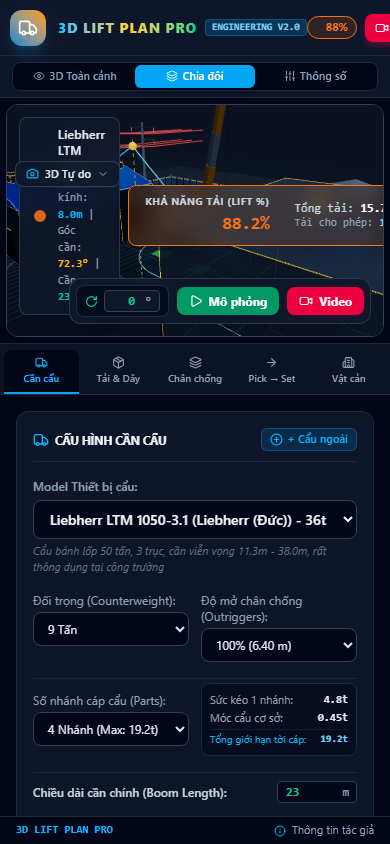
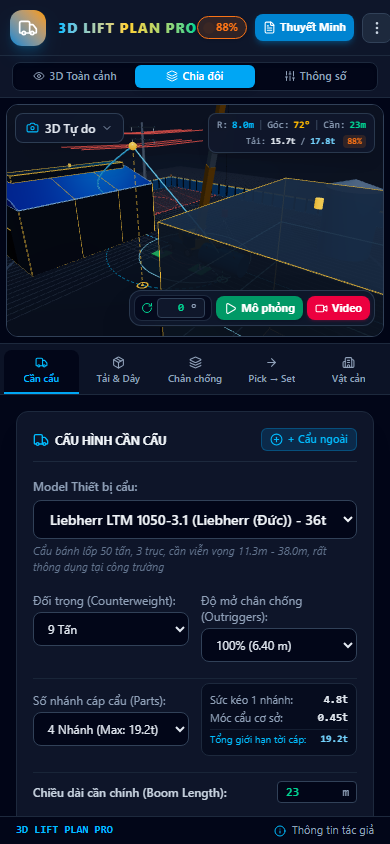
fix: khac phuc triet de loi bo cuc va tran man hinh tren dien thoai

Changed region(s): [[0.0308, 0.1232, 0.9846, 0.4005], [0.4923, 0.0, 1.0, 0.0616], [0.5231, 0.1232, 0.9538, 0.1848]]

diff --git a/src/components/ThreeViewport.jsx b/src/components/ThreeViewport.jsx
@@ -1093,8 +1093,8 @@ export default function ThreeViewport({
         </div>
       )}
 
-      {/* Top Overlay Bar: Status & Key Telemetry */}
-      <div className="absolute top-3 left-3 right-3 flex items-center justify-between pointer-events-none gap-2">
+      {/* Top Overlay Bar: Desktop Mode (md and up) */}
+      <div className="hidden md:flex absolute top-3 left-3 right-3 items-center justify-between pointer-events-none gap-2 z-20">
         {/* Crane & Model Tag */}
         <div className="bg-slate-900/85 backdrop-blur-md px-3.5 py-2 rounded-lg border border-slate-700/80 shadow-lg flex items-center gap-3 pointer-events-auto">
           <div className="w-3 h-3 rounded-full animate-pulse shrink-0" style={{ backgroundColor: liftCategory.color }} />
@@ -1130,6 +1130,116 @@ export default function ThreeViewport({
             <div className="text-slate-400 text-[11px]">
               Tải cho phép: <span className="font-bold text-sky-300">{ratedCapacity.toFixed(2)}t</span>
             </div>
+          </div>
+        </div>
+      </div>
+
+      {/* Top Overlay Bar: Mobile Mode (< md) */}
+      <div className="md:hidden absolute top-2 left-2 right-2 flex items-start justify-between pointer-events-none gap-1.5 z-20">
+        {/* Camera Selector Dropdown Pill */}
+        <div className="relative pointer-events-auto shrink-0">
+          <button
+            type="button"
+            onClick={() => setIsCameraMenuOpen(!isCameraMenuOpen)}
+            className="bg-slate-900/95 backdrop-blur-md px-2.5 py-1.5 rounded-lg border border-slate-700/90 text-xs font-semibold text-slate-200 flex items-center gap-1.5 shadow-xl active:scale-95 transition-transform"
+          >
+            <Camera size={13} className="text-sky-400 shrink-0" />
+            <span>
+              {activeCameraView === '3d' && '3D Tự do'}
+              {activeCameraView === 'top' && 'Mặt bằng'}
+              {activeCameraView === 'side' && 'Mặt bên'}
+              {activeCameraView === 'cab' && 'Buồng lái'}
+              {activeCameraView === 'load' && 'Tải cẩu'}
+            </span>
+            <ChevronDown size={12} className={`text-slate-400 transition-transform ${isCameraMenuOpen ? 'rotate-180' : ''}`} />
+          </button>
+
+          {isCameraMenuOpen && (
+            <div className="absolute left-0 top-full mt-1 bg-slate-900/95 backdrop-blur-md p-1.5 rounded-xl border border-slate-700 shadow-2xl flex flex-col gap-1 min-w-[130px] z-50 animate-in fade-in duration-150">
+              <button
+                type="button"
+                onClick={() => { setCameraPreset('3d'); setIsCameraMenuOpen(false); }}
+                className={`px-2.5 py-1.5 rounded-lg text-xs font-medium text-left flex items-center gap-2 ${
+                  activeCameraView === '3d' ? 'bg-sky-500 text-white font-bold' : 'text-slate-300 hover:bg-slate-800'
+                }`}
+              >
+                <Compass size={13} /> 3D Tự do
+              </button>
+              <button
+                type="button"
+                onClick={() => { setCameraPreset('top'); setIsCameraMenuOpen(false); }}
+                className={`px-2.5 py-1.5 rounded-lg text-xs font-medium text-left flex items-center gap-2 ${
+                  activeCameraView === 'top' ? 'bg-sky-500 text-white font-bold' : 'text-slate-300 hover:bg-slate-800'
+                }`}
+              >
+                <Layers size={13} /> Mặt bằng (Top)
+              </button>
+              <button
+                type="button"
+                onClick={() => { setCameraPreset('side'); setIsCameraMenuOpen(false); }}
+                className={`px-2.5 py-1.5 rounded-lg text-xs font-medium text-left flex items-center gap-2 ${
+                  activeCameraView === 'side' ? 'bg-sky-500 text-white font-bold' : 'text-slate-300 hover:bg-slate-800'
+                }`}
+              >
+                <Sliders size={13} /> Mặt bên (Side)
+              </button>
+              <button
+                type="button"
+                onClick={() => { setCameraPreset('cab'); setIsCameraMenuOpen(false); }}
+                className={`px-2.5 py-1.5 rounded-lg text-xs font-medium text-left flex items-center gap-2 ${
+                  activeCameraView === 'cab' ? 'bg-sky-500 text-white font-bold' : 'text-slate-300 hover:bg-slate-800'
+                }`}
+              >
+                <Eye size={13} /> Buồng lái
+              </button>
+              <button
+                type="button"
+                onClick={() => { setCameraPreset('load'); setIsCameraMenuOpen(false); }}
+                className={`px-2.5 py-1.5 rounded-lg text-xs font-medium text-left flex items-center gap-2 ${
+                  activeCameraView === 'load' ? 'bg-sky-500 text-white font-bold' : 'text-slate-300 hover:bg-slate-800'
+                }`}
+              >
+                <Box size={13} /> Tải cẩu
+              </button>
+              <div className="h-px bg-slate-800 my-0.5" />
+              <button
+                type="button"
+                onClick={() => { setIsGizmoActive(!isGizmoActive); setIsCameraMenuOpen(false); }}
+                className={`px-2.5 py-1.5 rounded-lg text-xs font-bold text-left flex items-center gap-2 ${
+                  isGizmoActive ? 'bg-rose-600 text-white' : 'text-slate-300 hover:bg-slate-800'
+                }`}
+              >
+                <Move3d size={13} /> {isGizmoActive ? 'Tắt kéo 3D' : 'Bật kéo 3D'}
+              </button>
+            </div>
+          )}
+        </div>
+
+        {/* Compact Mobile Telemetry Card */}
+        <div className="bg-slate-900/90 backdrop-blur-md px-2 py-1 rounded-lg border border-slate-700/80 shadow-lg text-[10px] font-mono pointer-events-auto text-right">
+          <div className="flex items-center gap-1 justify-end">
+            <span className="text-slate-400">R:</span>
+            <b className="text-sky-400">{workingRadius.toFixed(1)}m</b>
+            <span className="text-slate-600">|</span>
+            <span className="text-slate-400">Góc:</span>
+            <b className="text-amber-400">{boomAngle.toFixed(0)}°</b>
+            <span className="text-slate-600">|</span>
+            <span className="text-slate-400">Cần:</span>
+            <b className="text-emerald-400">{boomLength.toFixed(0)}m</b>
+          </div>
+          <div className="flex items-center gap-1 justify-end text-[9px] mt-0.5">
+            <span className="text-slate-400">
+              Tải: <b className="text-slate-200">{grossLoad.toFixed(1)}t</b> / <b className="text-sky-300">{ratedCapacity.toFixed(1)}t</b>
+            </span>
+            <span
+              className="px-1 py-0.2 rounded font-bold ml-1"
+              style={{
+                backgroundColor: liftCategory.bgColor,
+                color: liftCategory.color
+              }}
+            >
+              {liftPercentage > 0 ? `${liftPercentage.toFixed(0)}%` : 'NGOÀI'}
+            </span>
           </div>
         </div>
       </div>
@@ -1217,71 +1327,11 @@ export default function ThreeViewport({
         </button>
       </div>
 
-      {/* Mobile Mode (under md): Compact Collapsible Pill Dropdown */}
-      <div className="md:hidden absolute left-2 top-14 z-30 pointer-events-auto">
-        <button
-          onClick={() => setIsCameraMenuOpen(!isCameraMenuOpen)}
-          className="bg-slate-900/90 backdrop-blur-md px-2.5 py-1 rounded-lg border border-slate-700/90 text-[11px] font-semibold text-slate-200 flex items-center gap-1.5 shadow-lg active:scale-95 transition-transform"
-        >
-          <Camera size={13} className="text-sky-400 shrink-0" />
-          <span>
-            {activeCameraView === '3d' && '3D Tự do'}
-            {activeCameraView === 'top' && 'Mặt bằng'}
-            {activeCameraView === 'side' && 'Mặt bên'}
-            {activeCameraView === 'cab' && 'Buồng lái'}
-            {activeCameraView === 'load' && 'Tải cẩu'}
-          </span>
-          <ChevronDown size={12} className={`text-slate-400 transition-transform ${isCameraMenuOpen ? 'rotate-180' : ''}`} />
-        </button>
-
-        {isCameraMenuOpen && (
-          <div className="mt-1 bg-slate-900/95 backdrop-blur-md p-1.5 rounded-xl border border-slate-700 shadow-2xl flex flex-col gap-1 min-w-[125px] animate-in fade-in duration-150">
-            <button
-              onClick={() => { setCameraPreset('3d'); setIsCameraMenuOpen(false); }}
-              className={`px-2.5 py-1.5 text-xs rounded-lg text-left flex items-center gap-2 ${activeCameraView === '3d' ? 'bg-sky-500 text-white font-bold' : 'text-slate-300 hover:bg-slate-800'}`}
-            >
-              <Camera size={13} /> 3D Tự do
-            </button>
-            <button
-              onClick={() => { setCameraPreset('top'); setIsCameraMenuOpen(false); }}
-              className={`px-2.5 py-1.5 text-xs rounded-lg text-left flex items-center gap-2 ${activeCameraView === 'top' ? 'bg-sky-500 text-white font-bold' : 'text-slate-300 hover:bg-slate-800'}`}
-            >
-              <Compass size={13} /> Mặt bằng
-            </button>
-            <button
-              onClick={() => { setCameraPreset('side'); setIsCameraMenuOpen(false); }}
-              className={`px-2.5 py-1.5 text-xs rounded-lg text-left flex items-center gap-2 ${activeCameraView === 'side' ? 'bg-sky-500 text-white font-bold' : 'text-slate-300 hover:bg-slate-800'}`}
-            >
-              <Layers size={13} /> Mặt bên
-            </button>
-            <button
-              onClick={() => { setCameraPreset('cab'); setIsCameraMenuOpen(false); }}
-              className={`px-2.5 py-1.5 text-xs rounded-lg text-left flex items-center gap-2 ${activeCameraView === 'cab' ? 'bg-sky-500 text-white font-bold' : 'text-slate-300 hover:bg-slate-800'}`}
-            >
-              <Eye size={13} /> Buồng lái
-            </button>
-            <button
-              onClick={() => { setCameraPreset('load'); setIsCameraMenuOpen(false); }}
-              className={`px-2.5 py-1.5 text-xs rounded-lg text-left flex items-center gap-2 ${activeCameraView === 'load' ? 'bg-sky-500 text-white font-bold' : 'text-slate-300 hover:bg-slate-800'}`}
-            >
-              <Box size={13} /> Tải cẩu
-            </button>
-            <div className="h-px bg-slate-800 my-0.5" />
-            <button
-              onClick={() => { setIsGizmoActive(!isGizmoActive); setIsCameraMenuOpen(false); }}
-              className={`px-2.5 py-1.5 text-xs rounded-lg text-left flex items-center gap-2 ${isGizmoActive ? 'bg-rose-600 text-white font-bold' : 'text-slate-300 hover:bg-slate-800'}`}
-            >
-              <Move3d size={13} /> {isGizmoActive ? 'Tắt kéo 3D' : 'Bật kéo 3D'}
-            </button>
-          </div>
-        )}
-      </div>
-
       {/* Trajectory Simulation & Play Controls + Real-Time Load Rotation */}
-      <div className="absolute bottom-3 sm:bottom-4 right-3 sm:right-4 z-30 bg-slate-900/90 backdrop-blur-md p-1.5 rounded-xl border border-slate-700/80 shadow-xl flex items-center gap-2 shrink-0">
+      <div className="absolute bottom-2.5 sm:bottom-4 right-2 sm:right-4 z-30 bg-slate-900/95 backdrop-blur-md p-1 sm:p-1.5 rounded-xl border border-slate-700/80 shadow-2xl flex items-center gap-1 sm:gap-2 shrink-0 max-w-[calc(100%-1rem)] pointer-events-auto">
         {/* Real-time Direct Load Rotation Quick Control */}
-        <div className="flex items-center gap-1.5 bg-slate-950/70 border border-slate-700/60 rounded-lg px-2 py-1 text-xs">
-          <RotateCw size={13} className="text-emerald-400 shrink-0" />
+        <div className="flex items-center gap-1 sm:gap-1.5 bg-slate-950/70 border border-slate-700/60 rounded-lg px-1.5 sm:px-2 py-0.5 sm:py-1 text-xs">
+          <RotateCw size={12} className="text-emerald-400 shrink-0" />
           <span className="text-[11px] text-slate-300 font-medium hidden sm:inline">Xoay tải:</span>
           <WheelNumberInput
             value={loadRotation || 0}
@@ -1293,7 +1343,7 @@ export default function ThreeViewport({
             step={5}
             wrapAround={true}
             unit="°"
-            className="w-14 bg-slate-900 border border-slate-700 rounded px-1 py-0.5 text-xs text-emerald-400 font-mono font-bold text-center focus:border-emerald-500"
+            className="w-12 sm:w-14 bg-slate-900 border border-slate-700 rounded px-1 py-0.5 text-[11px] sm:text-xs text-emerald-400 font-mono font-bold text-center focus:border-emerald-500"
           />
           <div className="hidden sm:flex items-center gap-0.5">
             {[0, 90, 180, 270].map((deg) => (
@@ -1317,13 +1367,13 @@ export default function ThreeViewport({
 
         <button
           onClick={() => setIsSimulating(!isSimulating)}
-          className={`px-3 py-1.5 text-xs font-bold rounded-lg flex items-center gap-1.5 shadow transition-all whitespace-nowrap cursor-pointer ${
+          className={`px-2 sm:px-3 py-1 sm:py-1.5 text-[11px] sm:text-xs font-bold rounded-lg flex items-center gap-1 sm:gap-1.5 shadow transition-all whitespace-nowrap cursor-pointer ${
             isSimulating
               ? 'bg-amber-600 hover:bg-amber-500 text-white'
               : 'bg-emerald-600 hover:bg-emerald-500 text-white'
           }`}
         >
-          {isSimulating ? <Pause size={14} className="shrink-0" /> : <Play size={14} className="shrink-0" />}
+          {isSimulating ? <Pause size={13} className="shrink-0" /> : <Play size={13} className="shrink-0" />}
           <span className="hidden sm:inline">{isSimulating ? 'Tạm dừng mô phỏng' : 'Chạy thử đường cẩu (Pick → Set)'}</span>
           <span className="sm:hidden">{isSimulating ? 'Dừng' : 'Mô phỏng'}</span>
         </button>
@@ -1332,10 +1382,10 @@ export default function ThreeViewport({
         {onOpenVideoModal && (
           <button
             onClick={onOpenVideoModal}
-            className="px-3 py-1.5 text-xs font-bold rounded-lg flex items-center gap-1.5 shadow transition-all whitespace-nowrap cursor-pointer bg-rose-600 hover:bg-rose-500 text-white shadow-rose-600/20"
+            className="px-2 sm:px-3 py-1 sm:py-1.5 text-[11px] sm:text-xs font-bold rounded-lg flex items-center gap-1 sm:gap-1.5 shadow transition-all whitespace-nowrap cursor-pointer bg-rose-600 hover:bg-rose-500 text-white shadow-rose-600/20"
             title="Xuất video ngắn mô phỏng nâng hạ 3D (MP4 / Full HD)"
           >
-            <Video size={14} className="shrink-0" />
+            <Video size={13} className="shrink-0" />
             <span className="hidden sm:inline">Quay video 3D</span>
             <span className="sm:hidden">Video</span>
           </button>

diff --git a/src/App.jsx b/src/App.jsx
@@ -533,7 +533,7 @@ export default function App() {
               <h1 className="text-sm font-black tracking-wider uppercase bg-gradient-to-r from-sky-400 via-amber-300 to-emerald-400 bg-clip-text text-transparent whitespace-nowrap">
                 3D LIFT PLAN PRO
               </h1>
-              <span className="text-[10px] font-mono bg-sky-500/20 text-sky-300 border border-sky-500/30 px-1.5 py-0.2 rounded font-bold shrink-0">
+              <span className="text-[10px] font-mono bg-sky-500/20 text-sky-300 border border-sky-500/30 px-1.5 py-0.2 rounded font-bold shrink-0 hidden sm:inline-block">
                 ENGINEERING V2.0
               </span>
             </div>
@@ -608,24 +608,24 @@ export default function App() {
             </label>
           </div>
 
-          {/* Primary Action Buttons (Always visible) */}
+          {/* Primary Action Buttons */}
           <button
             onClick={() => setIsVideoModalOpen(true)}
-            className="bg-rose-600 hover:bg-rose-500 text-white px-2.5 sm:px-3.5 py-1.5 rounded-lg text-xs font-bold flex items-center gap-1.5 shadow-md shadow-rose-600/30 transition-colors whitespace-nowrap shrink-0 cursor-pointer"
+            className="hidden sm:flex bg-rose-600 hover:bg-rose-500 text-white px-2.5 sm:px-3.5 py-1.5 rounded-lg text-xs font-bold items-center gap-1.5 shadow-md shadow-rose-600/30 transition-colors whitespace-nowrap shrink-0 cursor-pointer"
             title="Xuất video ngắn mô phỏng nâng hạ 3D (MP4 / Full HD)"
           >
             <Video size={14} className="shrink-0" />
-            <span className="hidden sm:inline">Xuất Video 3D</span>
-            <span className="sm:hidden">Video</span>
+            <span>Xuất Video 3D</span>
           </button>
 
           <button
             onClick={handleOpenReport}
-            className="bg-sky-600 hover:bg-sky-500 text-white px-2.5 sm:px-3.5 py-1.5 rounded-lg text-xs font-bold flex items-center gap-1.5 shadow-md shadow-sky-600/30 transition-colors whitespace-nowrap shrink-0 cursor-pointer"
+            className="bg-sky-600 hover:bg-sky-500 text-white px-2 sm:px-3.5 py-1.5 rounded-lg text-xs font-bold flex items-center gap-1 sm:gap-1.5 shadow-md shadow-sky-600/30 transition-colors whitespace-nowrap shrink-0 cursor-pointer"
+            title="Xuất thuyết minh & Biện pháp cẩu PDF"
           >
-            <FileText size={14} className="shrink-0" />
+            <FileText size={13} className="shrink-0" />
             <span className="hidden sm:inline">Xuất Thuyết Minh Cẩu</span>
-            <span className="sm:hidden">Thuyết Minh</span>
+            <span className="sm:hidden text-[11px]">Thuyết Minh</span>
           </button>
 
           {/* Mobile Secondary Menu Toggle (⋮) */}
@@ -640,7 +640,17 @@ export default function App() {
 
             {/* Mobile Dropdown Popover */}
             {isMobileMenuOpen && (
-              <div className="absolute right-0 top-11 mt-1 bg-slate-900/95 border border-slate-700/90 rounded-xl shadow-2xl p-1.5 flex flex-col gap-1 z-50 min-w-[170px] backdrop-blur-md animate-in fade-in duration-150">
+              <div className="absolute right-0 top-full mt-1.5 bg-slate-900/95 border border-slate-700/90 rounded-xl shadow-2xl p-1.5 flex flex-col gap-1 z-50 min-w-[170px] backdrop-blur-md animate-in fade-in duration-150">
+                <button
+                  onClick={() => {
+                    setIsVideoModalOpen(true);
+                    setIsMobileMenuOpen(false);
+                  }}
+                  className="px-2.5 py-1.5 rounded-lg text-xs text-left text-rose-300 hover:bg-slate-800 flex items-center gap-2 cursor-pointer font-bold"
+                >
+                  <Video size={14} className="text-rose-400 shrink-0" />
+                  <span>Xuất Video 3D</span>
+                </button>
                 <button
                   onClick={() => {
                     setIsCustomCraneModalOpen(true);
@@ -746,17 +756,6 @@ export default function App() {
             p-1.5 sm:p-2 lg:p-3
           `}
         >
-          {/* Quick parameter trigger when in full 3D mode on mobile */}
-          {mobileViewMode === '3d' && (
-            <button
-              type="button"
-              onClick={() => setMobileViewMode('panel')}
-              className="lg:hidden absolute bottom-3 left-3 z-30 bg-sky-600/95 hover:bg-sky-500 text-white px-3 py-1.5 rounded-full text-xs font-bold shadow-2xl flex items-center gap-1.5 border border-sky-400/50 backdrop-blur-md cursor-pointer animate-in fade-in duration-200"
-            >
-              <Sliders size={13} />
-              <span>Chỉnh thông số</span>
-            </button>
-          )}
           {/* Floating Camera Framing Banner when adjusting report view angles */}
           {adjustingViewConfig && (
             <div className="absolute top-5 left-1/2 -translate-x-1/2 z-50 bg-slate-950/95 border-2 border-amber-400 text-slate-100 px-5 py-3 rounded-2xl shadow-2xl flex flex-col md:flex-row items-center gap-4 backdrop-blur-md animate-in fade-in slide-in-from-top-4 duration-200 pointer-events-auto max-w-[95%]">
